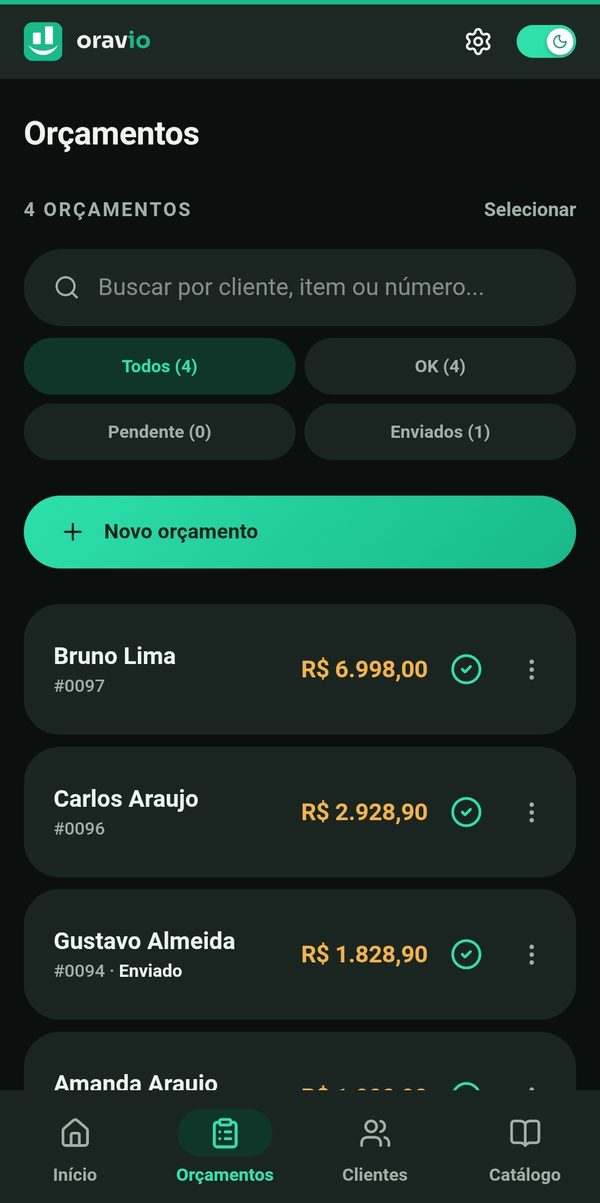
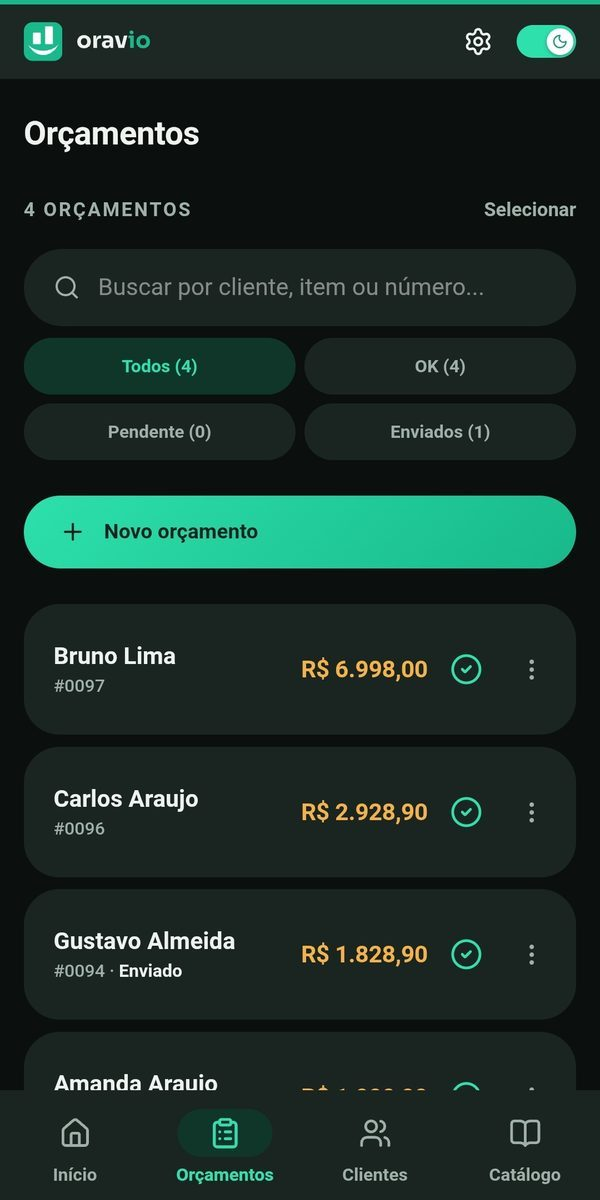
Deixar a moldura dos celulares com perfil de aparelho atual
O canto de 42px com moldura de 9px dava cara de iPhone antigo: borda grossa
e curva muito aberta. Agora sao 27px de raio com 5px de moldura, e o raio
de dentro e calculado a partir dos dois (`calc(--raio - --bezel)`) -- e isso
que faz a borda ter a mesma espessura no canto e na reta, em vez de
engrossar na curva.

Os dois valores viraram variaveis porque aparelho menor pede canto menor na
mesma proporcao: o par de temas usa 22px/4px, e no celular cai pra 15px/3px.
Com um raio fixo, um print de 126px de largura ficaria com quina de bala.

O print da lista no tema escuro tinha 1203px de altura contra 1200 do claro,
e os 3px jogavam as legendas "Tema escuro" e "Tema claro" fora de linha.
Cortado na origem, que e onde o problema estava.

diff --git a/estilo.css b/estilo.css
@@ -78,8 +78,11 @@
   .hero-media{display:flex;justify-content:center;position:relative}
   .glow{position:absolute;z-index:0;border-radius:50%;background:var(--green-fill);filter:blur(90px);pointer-events:none}
   .hero-media .glow{width:520px;height:520px;top:-30px;right:-20px;opacity:.24}
-  .device{position:relative;z-index:1;background:#0a0f0c;border:1px solid var(--line);border-radius:42px;padding:9px;box-shadow:var(--shadow);width:280px}
-  .device img{border-radius:34px;width:100%;display:block}
+  /* Perfil de aparelho Android atual: canto reto e moldura fina.
+     O raio de dentro é o de fora MENOS a moldura — é isso que faz a borda
+     ter espessura igual no canto e na reta, em vez de engrossar na curva. */
+  .device{--bezel:5px;--raio:27px;position:relative;z-index:1;background:#0a0f0c;border:1px solid var(--line);border-radius:var(--raio);padding:var(--bezel);box-shadow:var(--shadow);width:280px}
+  .device img{border-radius:calc(var(--raio) - var(--bezel));width:100%;display:block}
 
   /* Os dois celulares do herói: a fala entrando e o documento saindo.
      Sobrepostos na MESMA célula de grade — assim o par continua centrado
@@ -172,7 +175,9 @@
      sem pé. A moldura de celular é o que dá borda aos dois por igual.
      Medida em vw e travada nas pontas: o par precisa caber LADO A LADO em
      qualquer tela, porque a comparação entre os dois temas é o conteúdo. */
-  .theme-shot .device{width:clamp(126px,40vw,236px)}
+  /* Aparelho menor pede canto e moldura menores na mesma proporção, senão a
+     borda vira um quadro grosso em volta de um print pequeno. */
+  .theme-shot .device{--bezel:4px;--raio:22px;width:clamp(126px,40vw,236px)}
   .theme-shot figcaption{display:flex;align-items:center;gap:9px;font-size:13.5px;font-weight:600;color:var(--muted)}
   .theme-shot .dot{width:11px;height:11px;border-radius:50%;border:1px solid var(--line);flex:none}
   .theme-shot .dot.dark{background:#0d120f}
@@ -265,7 +270,8 @@
     .devices .device-back{transform:translateX(48px) scale(.945)}
   }
   @media (max-width:620px){
-    .devices .device{width:192px}
+    .devices .device{width:192px;--bezel:4px;--raio:21px}
+    .theme-shot .device{--bezel:3px;--raio:15px}
     .devices .device-front{transform:translateX(-46px)}
     .devices .device-back{transform:translateX(46px) scale(.945)}
     /* O selo some no celular: sobre uma composição de ~280px ele cobria metade

diff --git a/index.html b/index.html
@@ -208,7 +208,7 @@
     </div>
     <div class="themes reveal">
       <figure class="theme-shot">
-        <div class="device"><img src="tela-lista-escura.jpg" width="600" height="1203" loading="lazy" decoding="async" alt="Lista de orçamentos do Oravio no tema escuro, com busca, filtros por situação e os orçamentos de cada cliente"></div>
+        <div class="device"><img src="tela-lista-escura.jpg" width="600" height="1200" loading="lazy" decoding="async" alt="Lista de orçamentos do Oravio no tema escuro, com busca, filtros por situação e os orçamentos de cada cliente"></div>
         <figcaption><span class="dot dark"></span>Tema escuro</figcaption>
       </figure>
       <figure class="theme-shot">
